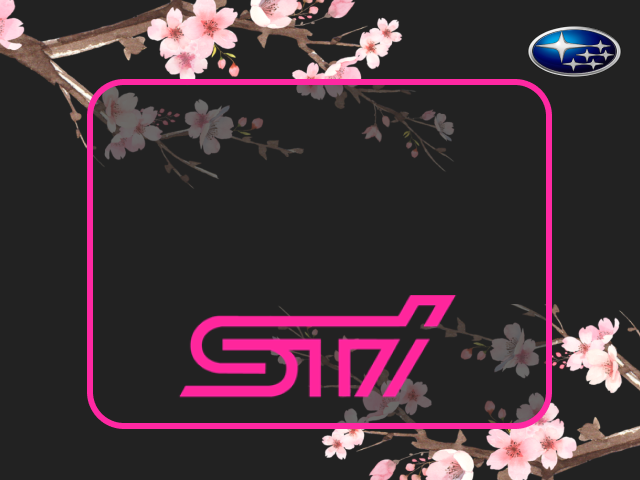
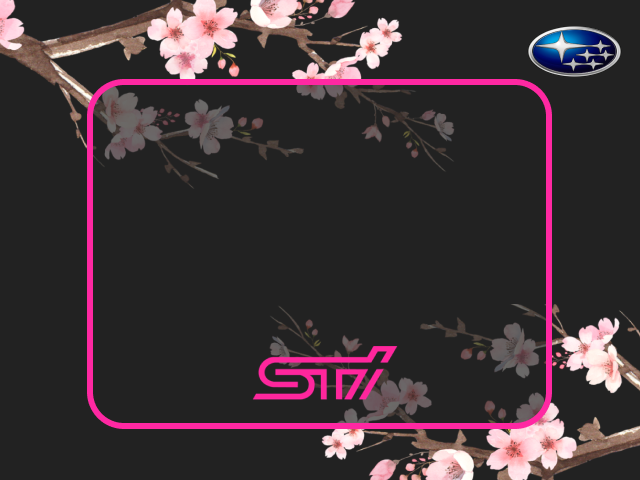
rpm working

Changed region(s): [[0.2812, 0.5938, 0.7188, 0.8438]]

diff --git a/src/main.go b/src/main.go
@@ -14,14 +14,15 @@ import (
 	"image/color"
 	"image/png"
 	"io"
-	"math/rand"
 	"net"
 	"os"
+	"strconv"
 	"strings"
 	"time"
 	"unsafe"
 
 	"github.com/fogleman/gg"
+	"golang.org/x/image/font"
 )
 
 func (app *GaugeBoy) Init() *GaugeBoy {
@@ -46,7 +47,7 @@ func (app *GaugeBoy) Init() *GaugeBoy {
 
 	app.DisplayText("MMP ODB2 Tool!")
 
-	app.Config = &gaugeConfig{}
+	app.Config = &Config{}
 	app.Running = true
 
 	go app.RunUI()
@@ -77,26 +78,38 @@ func (app *GaugeBoy) DrawSelectedGauge() {
 		app.SelectedGauge.DC.LoadFontFace("./assets/fonts/Inter.ttf", 25)
 		app.SelectedGauge.DC.SetColor(color.White)
 
-		app.SelectedGauge.DC.DrawStringWrapped("RPM", 640/2, 300, 0.5, 1, 600, 1.5, gg.AlignCenter)
+		app.SelectedGauge.DC.DrawStringWrapped("RPM", 640/2, 330, 0.5, 1, 600, 1.5, gg.AlignCenter)
 
 		app.SelectedGauge.DC.Fill()
 
 		app.SelectedGauge.Initialized = true
-		app.DC.LoadFontFace("./assets/fonts/Inter.ttf", 150)
+		app.DC.LoadFontFace("./gauges/rpm/ar-segument-7-display.ttf", 155)
 		app.DC.SetColor(color.White)
 	}
 
 	app.Inc++
-	rpmMsg, err := app.SendMSG("01 0C")
+	rpmMsg, err := app.SendMSG("010C")
 	if err != nil {
 		app.Panic(err)
 	}
 
-	rpmBytes := rpmMsg[3:]
+	rpmBytes := strings.ReplaceAll(rpmMsg, "410C", "")
+	rpmBytes = strings.ReplaceAll(rpmBytes, " ", "")
+
+	rpmBytes = rpmBytes[:4]
+	rpmValue, err := strconv.ParseInt(rpmBytes, 16, 64)
+	if err != nil {
+		app.DC.LoadFontFace("./assets/fonts/Inter.ttf", 25)
+		app.DC.SetRGB(0, 0, 0)
+
+		app.DisplayText(rpmMsg)
+
+		app.DC.LoadFontFace("./gauges/rpm/ar-segument-7-display.ttf", 155)
+		app.DC.SetColor(color.White)
+	}
 
 	app.DC.DrawImage(app.SelectedGauge.DC.Image(), 0, 0)
-	rpmString := rpmBytes
-	app.DC.DrawStringWrapped(rpmString, 640/2, 240, 0.5, 1, 600, 1.5, gg.AlignCenter)
+	app.DC.DrawStringWrapped(strconv.Itoa(int(rpmValue/4)), 640/2, 275, 0.5, 1, 600, 1.5, gg.AlignCenter)
 	app.DC.Fill()
 
 	app.ShouldRefresh = true
@@ -117,11 +130,6 @@ func (app *GaugeBoy) RunUI() {
 		case 0:
 			app.Running = false
 		case 1:
-			for y := 0; y < 480; y++ {
-				for x := 0; x < 640; x++ {
-					app.FB.SetRGBA(x, y, color.RGBA{uint8(rand.Intn(256)), uint8(rand.Intn(256)), uint8(rand.Intn(256)), 255})
-				}
-			}
 			app.ShouldRefresh = true
 		}
 
@@ -178,7 +186,7 @@ func (app *GaugeBoy) Run() {
 				app.SendMSG("AT H0")
 				app.SendMSG("AT SP 0")
 
-				if app.LastMsg != "OK" {
+				if app.LastMsg == "" {
 					app.Panic(fmt.Errorf("Failed to configure ODB2; Response: '" + app.LastMsg + "'"))
 				}
 
@@ -205,9 +213,22 @@ func (app *GaugeBoy) SendMSG(msg string) (string, error) {
 	return app.LastMsg, nil
 }
 
-type gaugeConfig struct {
-	Host string `json:"host"`
-	Port string `json:"port"`
+type Config struct {
+	Host   string   `json:"host"`
+	Port   string   `json:"port"`
+	Gauges []*Gauge `json:"gauges"`
+}
+
+type Gauge struct {
+	Initialized bool
+	DC          *gg.Context
+	FontFace    font.Face
+
+	Name      string `json:"name"`
+	Type      string `json:"type"`
+	Bg        string `json:"bg"`
+	TextColor string `json:"textColor"`
+	Font      string `json:"font"`
 }
 
 type GaugeBoy struct {
@@ -227,15 +248,9 @@ type GaugeBoy struct {
 	Inc int
 
 	Socket net.Conn
-	Config *gaugeConfig
+	Config *Config
 
 	SelectedGauge *Gauge
-}
-
-type Gauge struct {
-	Initialized bool
-	BG          *image.RGBA
-	DC          *gg.Context
 }
 
 func createApp() *GaugeBoy {

diff --git a/README.md b/README.md
@@ -1,0 +1,52 @@
+# GaugeBoy
+
+Hey, this is the readme for the GaugeBoy project. It is a ODBII reader for the Miyoo Mini Plus.
+
+This is a super early stage App and I only tested this on my car (Subaru Forester SJ) and with a generic WIFI ODBII Adapter I bought. The only gauge now is the RPM one. This may not work for your car, or even worse, maybe damage it, be really careful when using this software and I am in no way shape or form responsible if you brick your Miyoo Mini Plus or your car.
+
+<img src="mmp.jpeg" width="400"/>
+
+This is what my adapter looks like, as those are all generic ODBII adapters you can't know for sure if it will work unless you test it. In fact, this is my second adapter, the first one did not worked at all with my car
+
+<img src="adapter.jpeg" width="400"/>
+
+In the future I want this to support multiple types of gauges (RPM, Speed, Temperatures..), be fully customizable with a simple JSON and quickly switch between them. Performance of this app rn is also really bad, I wrote this thing using GoLang instead of C in the dumbest way possible. Memory allocations are too hard for me :weary: 
+
+## Install
+Download the .zip file from the releases, extract it and copy the GaugeBoy folder to the App/ folder on your SD card. The app should appear on your Apps. I only tested this using Onion OS.
+
+Install the adapter on your car
+
+Connect the Miyoo Mini Plus to the ODBII Wifi network
+
+Open the GaugeBoy app and wait for it to connect
+
+If you can see RPM you are very lucky
+
+## Development
+
+### Clone the toolchain:
+
+```
+git clone git@github.com:danfragoso/union-miyoomini-toolchain-go.git
+```
+
+ (Thank you @shauninman for the [original toolchain](https://github.com/shauninman/union-miyoomini-toolchain) and @zbtnot for [the working code example and article](https://gioarc.me/posts/games/miyoo.html))
+
+### Install the toolchain and build a release
+```
+cd union-miyoomini-toolchain-go
+make shell
+cd workspace
+git clone git@github.com:danfragoso/GaugeBoy.git
+cd GaugeBoy
+make
+make release
+```
+
+### Work from other people
+Thanks @fogleman for the GG golang library
+Thank you the creators of both fonts that I'm using
+Thank you the creators of all the images I'm using
+If you see any work here that belongs to you and you do not want me to use it, send me a message and I'll remove it immediatly :smiley:	:+1:
+
